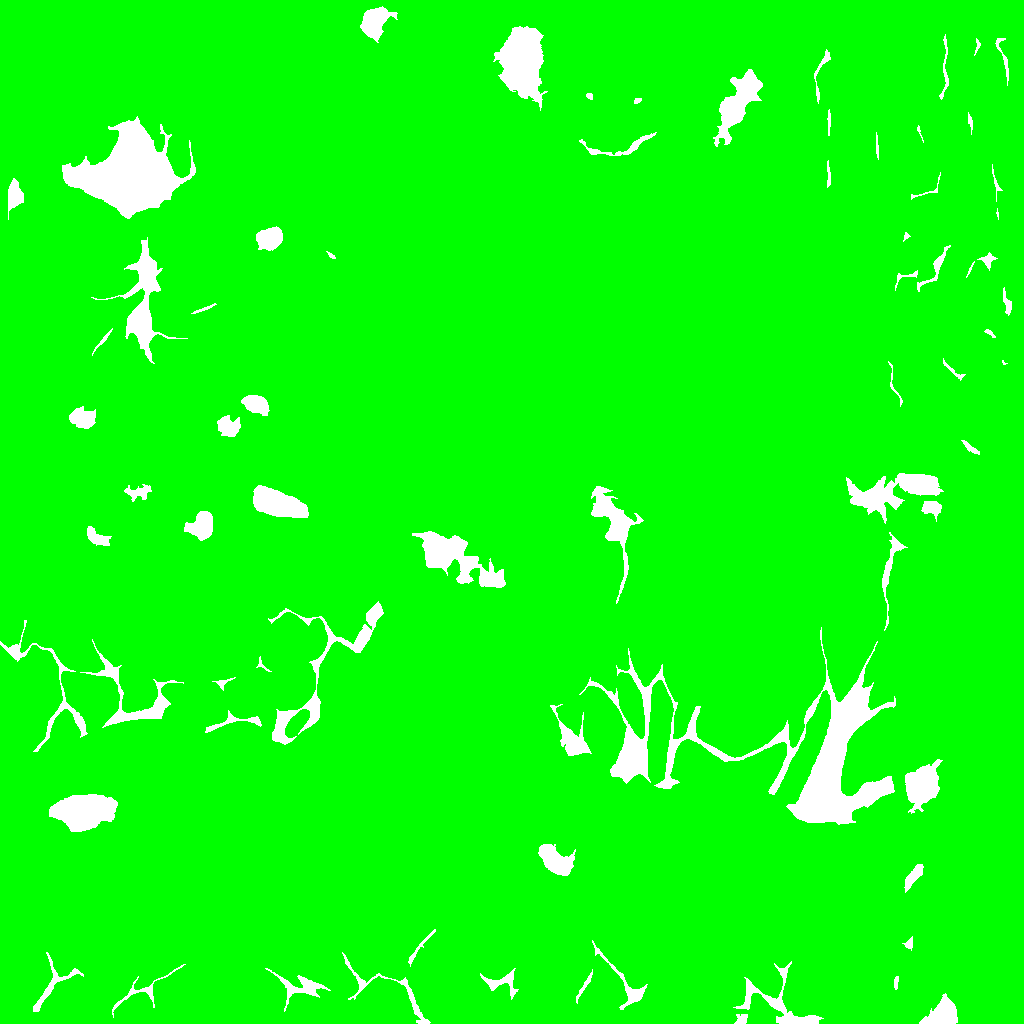
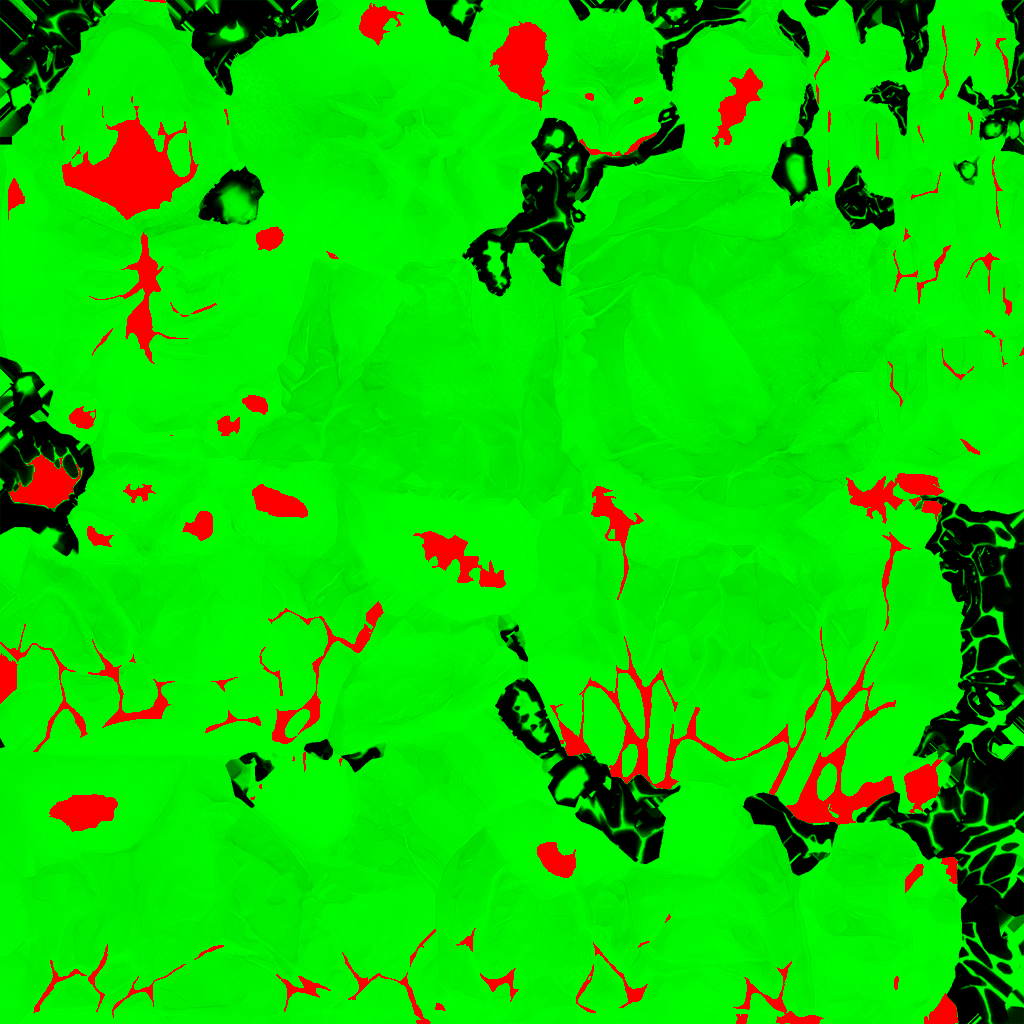
1

diff --git a/trace_common.c b/trace_common.c
@@ -84,13 +84,13 @@
                         if(lv_dr->map_id>=0)
                         {
                             __VTYPE3 lc;
-                            __VTYPE3 l_vtcp = __FCONV3(lv_dr->X) - cp;             // вектор к точке пересечения
+                            __VTYPE3 l_vtcp = cp - __FCONV3(lv_dr->X);             // вектор к точке пересечения
                             lc.x = dot(__FCONV3(lv_dr->ox),l_vtcp);               // Локальные координаты
                             lc.y = dot(__FCONV3(lv_dr->oy),l_vtcp);               // Локальные координаты
                             lc.z = dot(__FCONV3(lv_dr->oz),l_vtcp);               // Локальные координаты
                             lc = __NORMALIZE(lc);
                             __VTYPE3 uv;
-                            uv.y = 0.5*(dot(lc,__FCONV3(lv_dr->oz))+1); // от 0 (низ) до 1 (верх)
+                            uv.y = 0.5*(lc.z+1.0); // от 0 (низ) до 1 (верх)
                             if(lc.x>0){uv.x = atan(lc.y/lc.x)/M_PI+0.5;}
                             else{uv.x = atan(lc.y/lc.x)/M_PI+1.5;};
                             uv.x*=0.5;
@@ -101,13 +101,13 @@
                         if(lv_dr->advmap_id>=0)
                         {
                             __VTYPE3 lc;
-                            __VTYPE3 l_vtcp = __FCONV3(lv_dr->X) - cp;             // вектор к точке пересечения
+                            __VTYPE3 l_vtcp = cp - __FCONV3(lv_dr->X);             // вектор к точке пересечения
                             lc.x = dot(__FCONV3(lv_dr->ox),l_vtcp);               // Локальные координаты
                             lc.y = dot(__FCONV3(lv_dr->oy),l_vtcp);               // Локальные координаты
                             lc.z = dot(__FCONV3(lv_dr->oz),l_vtcp);               // Локальные координаты
                             lc = __NORMALIZE(lc);
                             __VTYPE3 uv;
-                            uv.y = 0.5*(dot(lc,__FCONV3(lv_dr->oz))+1); // от 0 (низ) до 1 (верх)
+                            uv.y = 0.5*(lc.z+1.0); // от 0 (низ) до 1 (верх)
                             if(lc.x>0){uv.x = atan(lc.y/lc.x)/M_PI+0.5;}
                             else{uv.x = atan(lc.y/lc.x)/M_PI+1.5;};
                             uv.x*=0.5;
@@ -198,6 +198,37 @@
                     ltp.x = dot(tp-__FCONV3(lv_dr->X),__FCONV3(lv_dr->ox));
                     ltp.y = dot(tp-__FCONV3(lv_dr->X),__FCONV3(lv_dr->oy));
                     ltp.z = dot(tp-__FCONV3(lv_dr->X),__FCONV3(lv_dr->oz));
+
+                    __VTYPE t_in = -SURE_R_MAXDISTANCE;
+                    __VTYPE t_out = SURE_R_MAXDISTANCE;
+                    __VTYPE t = 0;
+
+                    t = -(ltp.x-lv_dr->lx)/ltv.x;
+                    if((ltv.x)>0.0){ if(t<t_out) t_out = t;}
+                    else{ if(t>t_in) t_in = t; };
+
+                    t = -(ltp.x+lv_dr->lx)/ltv.x;
+                    if((-ltv.x)>0.0){ if(t<t_out) t_out = t;}
+                    else{ if(t>t_in) t_in = t; };
+
+                    t = -(ltp.y-lv_dr->ly)/ltv.y;
+                    if((ltv.y)>0.0){ if(t<t_out) t_out = t;}
+                    else{ if(t>t_in) t_in = t; };
+
+                    t = -(ltp.y+lv_dr->ly)/ltv.y;
+                    if((-ltv.y)>0.0){ if(t<t_out) t_out = t;}
+                    else{ if(t>t_in) t_in = t; };
+
+                    t = -(ltp.z-lv_dr->lz)/ltv.z;
+                    if((ltv.z)>0.0){ if(t<t_out) t_out = t;}
+                    else{ if(t>t_in) t_in = t; };
+
+                    t = -(ltp.z+lv_dr->lz)/ltv.z;
+                    if((-ltv.z)>0.0){ if(t<t_out) t_out = t;}
+                    else{ if(t>t_in) t_in = t; };
+
+                    if(t_in>t_out||t_out<SURE_R_DELTA)break;
+
                     for(uint im = 0;im<lv_dr->mesh_count;++im)
                     { // Для каждой meshины
                         uint cm = lv_dr->mesh_start + im;

diff --git a/SureData.cpp b/SureData.cpp
@@ -707,7 +707,7 @@ SureData::SureData()
         srand(time(NULL));
 
         LoadTexture("parket");
-        LoadTexture("hole");
+        LoadTexture("earth_adv");
         LoadTexture("test_alpha");
         LoadTexture("colstones");
         LoadTexture("golem");
@@ -816,11 +816,11 @@ SureData::SureData()
     i = CreateObject(SURE_OBJ_MESH);
     objects[i].X.x = 0; //Координаты центра
     objects[i].X.y = 0;
-    objects[i].X.z = 25;
+    objects[i].X.z = 10;
     objects[i].lx = 20.0; // длина
     objects[i].ly = 20.0; // ширина
     objects[i].lz = 20.0; // высота
-    Mesh_FromFile(i,"golem");
+    Mesh_FromFile(i,"teapot2");
 
     /*
     for(int mi = 0;mi<200;++mi)
@@ -839,31 +839,32 @@ SureData::SureData()
 
      MapTexture(i,SURE_MAPPING_PLANAR_XZ);
     */
+
     objects[i].movable = false;
     objects[i].collidable = true;
-    objects[i].oz.x = 1;
+    objects[i].oz.x = 0;
     objects[i].oz.y = 0;
-    objects[i].oz.z = 0;
+    objects[i].oz.z = 1;
     objects[i].oy.x = 0;
-    objects[i].oy.y = 0;
-    objects[i].oy.z = 1;
-    objects[i].ox.x = 0;
-    objects[i].ox.y = 1;
+    objects[i].oy.y = 1;
+    objects[i].oy.z = 0;
+    objects[i].ox.x = 1;
+    objects[i].ox.y = 0;
     objects[i].ox.z = 0;
 
     ObjCoordsToDrawable(i);
     objects[i].drawable.mesh_start = objects[i].mesh_start;
     objects[i].drawable.mesh_count = objects[i].mesh_count;
     objects[i].drawable.mesh_changed = true;
-    objects[i].drawable.map_id = GetTexture("golem");
-    objects[i].drawable.advmap_id = GetTexture("golem_adv");
+    //objects[i].drawable.map_id = GetTexture("golem");
+    //objects[i].drawable.advmap_id = GetTexture("golem_adv");
     objects[i].drawable.type = SURE_DR_MESH; // форма
     objects[i].drawable.radiance = 0.0; // свечение
     objects[i].drawable.transp = 0.95; // прозрачность
     objects[i].drawable.transp_i = 0.8; // прозрачность
     objects[i].drawable.refr = 1.41; // Коэффициент преломления
-    objects[i].drawable.dist_type = SURE_D_EQUAL; // тип рандомизации
-    objects[i].drawable.dist_sigma = 0.5; // sigma рандомизации
+    objects[i].drawable.dist_type = SURE_D_NORM; // тип рандомизации
+    objects[i].drawable.dist_sigma = 0.05; // sigma рандомизации
     objects[i].drawable.dist_m = 0 ; // матожидание рандомизации
     objects[i].drawable.rgb.s[0] = 200.0; // цвет
     objects[i].drawable.rgb.s[1] = 220.0; // цвет
@@ -871,8 +872,6 @@ SureData::SureData()
     objects[i].drawable.sided = true;
     objects[i].lp = 10;
     objects[i].initp4();
-
-
 
     //коллайдер падающий
     /*

diff --git a/SureWidget.cpp b/SureWidget.cpp
@@ -515,17 +515,18 @@ void SureWidget::mousePressEvent(QMouseEvent *event)
         EngineData->objects[i].drawable.lz = EngineData->objects[i].lz;
         EngineData->objects[i].drawable.type = SURE_DR_SPHERE; // форма
         EngineData->objects[i].drawable.radiance = 0.0; // свечение
-        EngineData->objects[i].drawable.transp = 0.96;//0.8+0.3*(float)rand()/(float)RAND_MAX; // прозрачность
-        EngineData->objects[i].drawable.transp_i = 0.1+0.6*(float)rand()/(float)RAND_MAX; // прозрачность
+        EngineData->objects[i].drawable.transp = 0;//0.8+0.3*(float)rand()/(float)RAND_MAX; // прозрачность
+        EngineData->objects[i].drawable.transp_i = 0.1;//+0.6*(float)rand()/(float)RAND_MAX; // прозрачность
         EngineData->objects[i].drawable.refr = 1.49; // Коэффициент преломления
         EngineData->objects[i].drawable.dist_type = SURE_D_NORM; // тип рандомизации
-        EngineData->objects[i].drawable.dist_sigma = 0.02*(float)rand()/(float)RAND_MAX; // sigma рандомизации
+        EngineData->objects[i].drawable.dist_sigma = 3.0*(float)rand()/(float)RAND_MAX; // sigma рандомизации
         EngineData->objects[i].drawable.dist_m = 0 ; // матожидание рандомизации
         EngineData->objects[i].drawable.rgb.s[0] = 100+155.0*(float)rand()/(float)RAND_MAX; // цвет
         EngineData->objects[i].drawable.rgb.s[1] = 100+155.0*(float)rand()/(float)RAND_MAX;// цвет
         EngineData->objects[i].drawable.rgb.s[2] = 100+155.0*(float)rand()/(float)RAND_MAX; // цвет
         EngineData->objects[i].drawable.sided = true;
         EngineData->objects[i].drawable.map_id = EngineData->GetTexture("earth");
+        EngineData->objects[i].drawable.advmap_id = EngineData->GetTexture("earth_adv");
         EngineData->objects[i].initp4();
         EngineData->objects[i].push(EngineData->objects[i].X,EngineData->cam_vec,0.8);
     };

diff --git a/SureDefines.h b/SureDefines.h
@@ -13,7 +13,7 @@
 #define SURE_RT_N       4
 
 #define SURE_FAA 1
-#define SURE_SCALE 4
+#define SURE_SCALE 2
 #define SURE_SMOOTH 1
 
 #define SURE_MAXRES_X 1920
@@ -49,7 +49,7 @@
 #define CLSIZE_VERTEX      SURE_R_MAXVERTEX*CLSIZE_VERTEX_DIM
 
 #define SURE_R_MAXMESH     50000
-#define SURE_R_MAXTEX      20
+#define SURE_R_MAXTEX      16
 #define SURE_R_TEXRES      1024
 #define SURE_R_MAXTEXMAP   SURE_R_MAXMESH
 

diff --git a/SureData.h b/SureData.h
@@ -97,7 +97,8 @@
         uint iix = ix; \
         uint iiy = iy+SURE_R_TEXRES*id; \
         uchar *tex = &Textures[SURE_R_TEXRES*4*iiy+4*iix]; \
-        col_radiance = *tex;
+        col_radiance = *tex; tex++; \
+        col_ds = *tex/100.0;
 
 #define __GET_TEXTURE_UV(cm,id) \
 __VTYPE map_px = __MESH_UV1_U(cm)+(__MESH_UV2_U(cm)-__MESH_UV1_U(cm))*u + \
